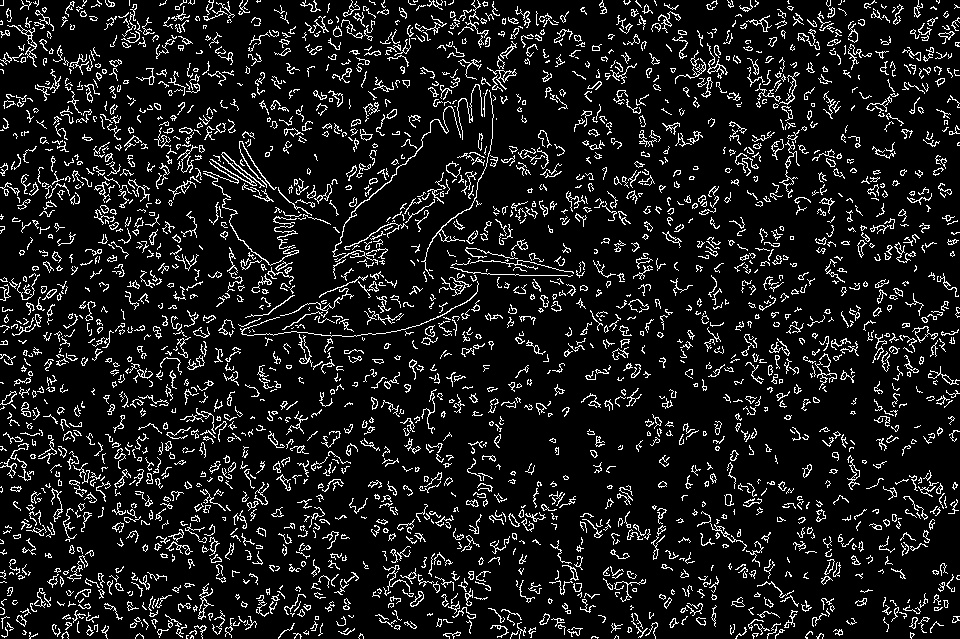
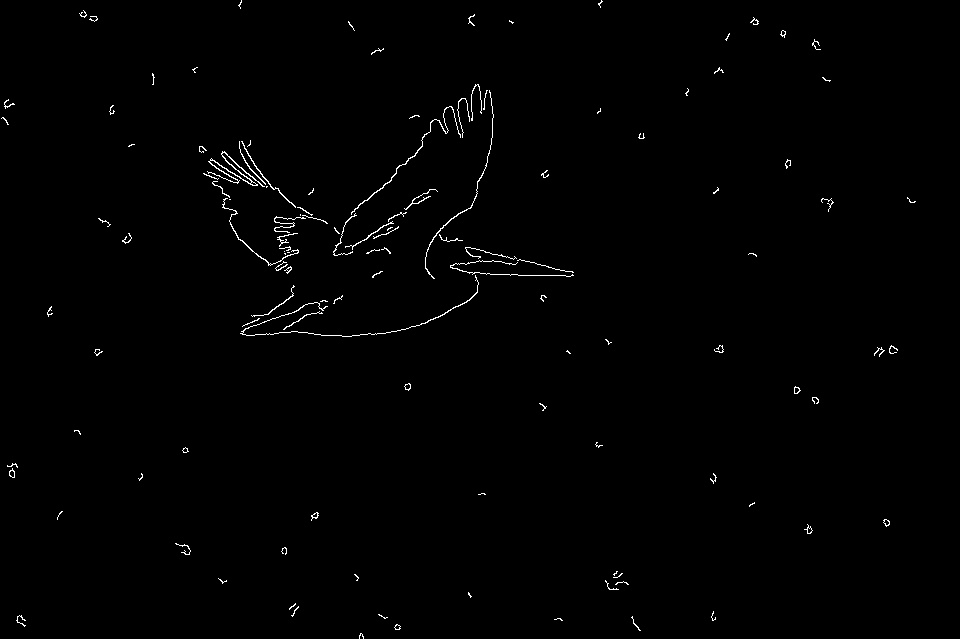
hoan thien xu ly nhieu

diff --git a/main.py b/main.py
@@ -19,7 +19,7 @@ if __name__ == '__main__':
     clock=pygame.time.Clock()
     bg=pygame.image.load('assert/bg2.jpeg').convert()
 
-    MENU=Menu(('Tải ảnh','Khử nhiễu','Phát hiện biên/cạnh ','Phát hiện khuôn mặt','Nhận diện khuôn mặt','Xem ảnh gốc'))
+    MENU=Menu(['Tải ảnh','Khử nhiễu','Phát hiện biên/cạnh ','Phát hiện khuôn mặt','Nhận diện khuôn mặt','Xem ảnh gốc'])
     screen=pygame.display.set_mode((screen_width,screen_height))
 
     run=True
@@ -36,6 +36,7 @@ if __name__ == '__main__':
 
                         # --- duyet file ------
                         url=duyet()
+                        MENU.items[0]= 'URL: '+ url
                         img=cv2.imread(url)
                         cv2.imshow("Original",img)
                         print(url)
@@ -43,20 +44,30 @@ if __name__ == '__main__':
 
                     elif MENU.state == 1:
                         # --- Khu nhieu ------
-                        #imgKN=khuNhieu.medianBlur(img)
-                        imgKN=khuNhieu.gaussianBlur(img)
-                        cv2.imshow("Khu nhieu",imgKN)
+                        imgKN_0=khuNhieu.gaussianBlur(img)
+
+                        imgKN_1=khuNhieu.medianBlur(img)
+                        imgKN_2=khuNhieu.gaussianBlur(imgKN_1)
+                        cv2.imshow("Khu nhieu",imgKN_2)
                         waiter()
-                        cv2.imwrite("output/denoise/khuNhieu.jpg",imgKN)
+
+                        cv2.imwrite("output/denoise/khuNhieu.jpg",imgKN_2)
+                        cv2.imwrite("output/denoise/khuNhieu_median.jpg",imgKN_1)
+                        cv2.imwrite("output/denoise/khuNhieu_gauss.jpg",imgKN_0)
                     elif MENU.state == 2:
                         # --- phat hien canh ------
-                        imgEdge=edge.canny(img)
-                        cv2.imshow("edgeSobelx",edge.sobelX(img))
-                        cv2.imshow("edgeSobely",edge.sobelY(img))
+                        imgGray=edge.grayscale(img)
+                        imgEdge=edge.canny(imgGray)
+                        img1=edge.sobelX(imgGray)
+                        img2=edge.sobelY(imgGray)
+
                         cv2.imshow("edgeCanny",imgEdge)
 
                         waiter()
-                        cv2.imwrite("output/edge/timCanh_."+url[-2:0]+"jpg",imgEdge)
+                        cv2.imwrite("output/edge/timCanh_edgeSobelX.jpg",img1)
+                        cv2.imwrite("output/edge/timCanh_edgeSobelY.jpg",img2)
+                        cv2.imwrite("output/edge/timCanh_edgeCanny.jpg",imgEdge)
+
                     elif MENU.state == 3:# cai cua m o day
                         # --- phat hien khuon mat ------
                         #dong duoi la2 show cai hinh phat hien khuon mat ra!!!

diff --git a/khuNhieu.py b/khuNhieu.py
@@ -1,6 +1,6 @@
 import numpy as np
 import cv2
-from matplotlib import pyplot as plt
+# from matplotlib import pyplot as plt
 
 img = cv2.imread("sample/noisy/cat.jpeg")
 sharpenMatrix= ([[0,-1,0],
@@ -9,13 +9,15 @@ sharpenMatrix= ([[0,-1,0],
 sharpenNP=np.array(sharpenMatrix)
 kernel = np.ones((3,3), np.float32)/9
 
-size=5
+size=3
+size_gauss=5
+
 
 def medianBlur(img):
 	return cv2.medianBlur(img,size)
 
 def gaussianBlur(img):
-	return cv2.GaussianBlur(img,(size,size),0)
+	return cv2.GaussianBlur(img,(size_gauss,size_gauss),0)
 
 def bilateral(img):
 	return cv2.bilateralFilter(img,9,75,75)

diff --git a/giaoDien.py b/giaoDien.py
@@ -13,6 +13,7 @@ def waiter():
 
 class Menu(object):
     state=0
+    url=""
     def __init__(self,items):
         self.font_color=(150,150,0)#chữ để in start ,exit
         self.select_color=(200,50,50)#font chữ để in khi mà con trỏ chỉ vào
@@ -32,7 +33,8 @@ class Menu(object):
 
             screen.blit(label,(posX,posY))
         
-            
+        # screen.blit(self.font.render("url: "+self.url,True,self.font_color),(screen_width-(10*len(self.url)),screen_height-50))
+
             
     def event_handler(self,event):
         if event.type == pygame.KEYDOWN:

diff --git a/edge.py b/edge.py
@@ -1,7 +1,7 @@
 
 import numpy as np
 import cv2
-from matplotlib import pyplot as plt
+# from matplotlib import pyplot as plt
 import khuNhieu
 
 img = cv2.imread("sample/noisy/bird.jpg")
@@ -25,7 +25,7 @@ def sobelXY(img):
 	return cv2.Sobel(src=img, ddepth=cv2.CV_64F, dx=1, dy=1, ksize=5)
 
 def canny(img):
-	return cv2.Canny(image=img, threshold1=100, threshold2=200)
+	return cv2.Canny(image=img, threshold1=100, threshold2=150)
 
 def waiter():
 	cv2.waitKey(0);
